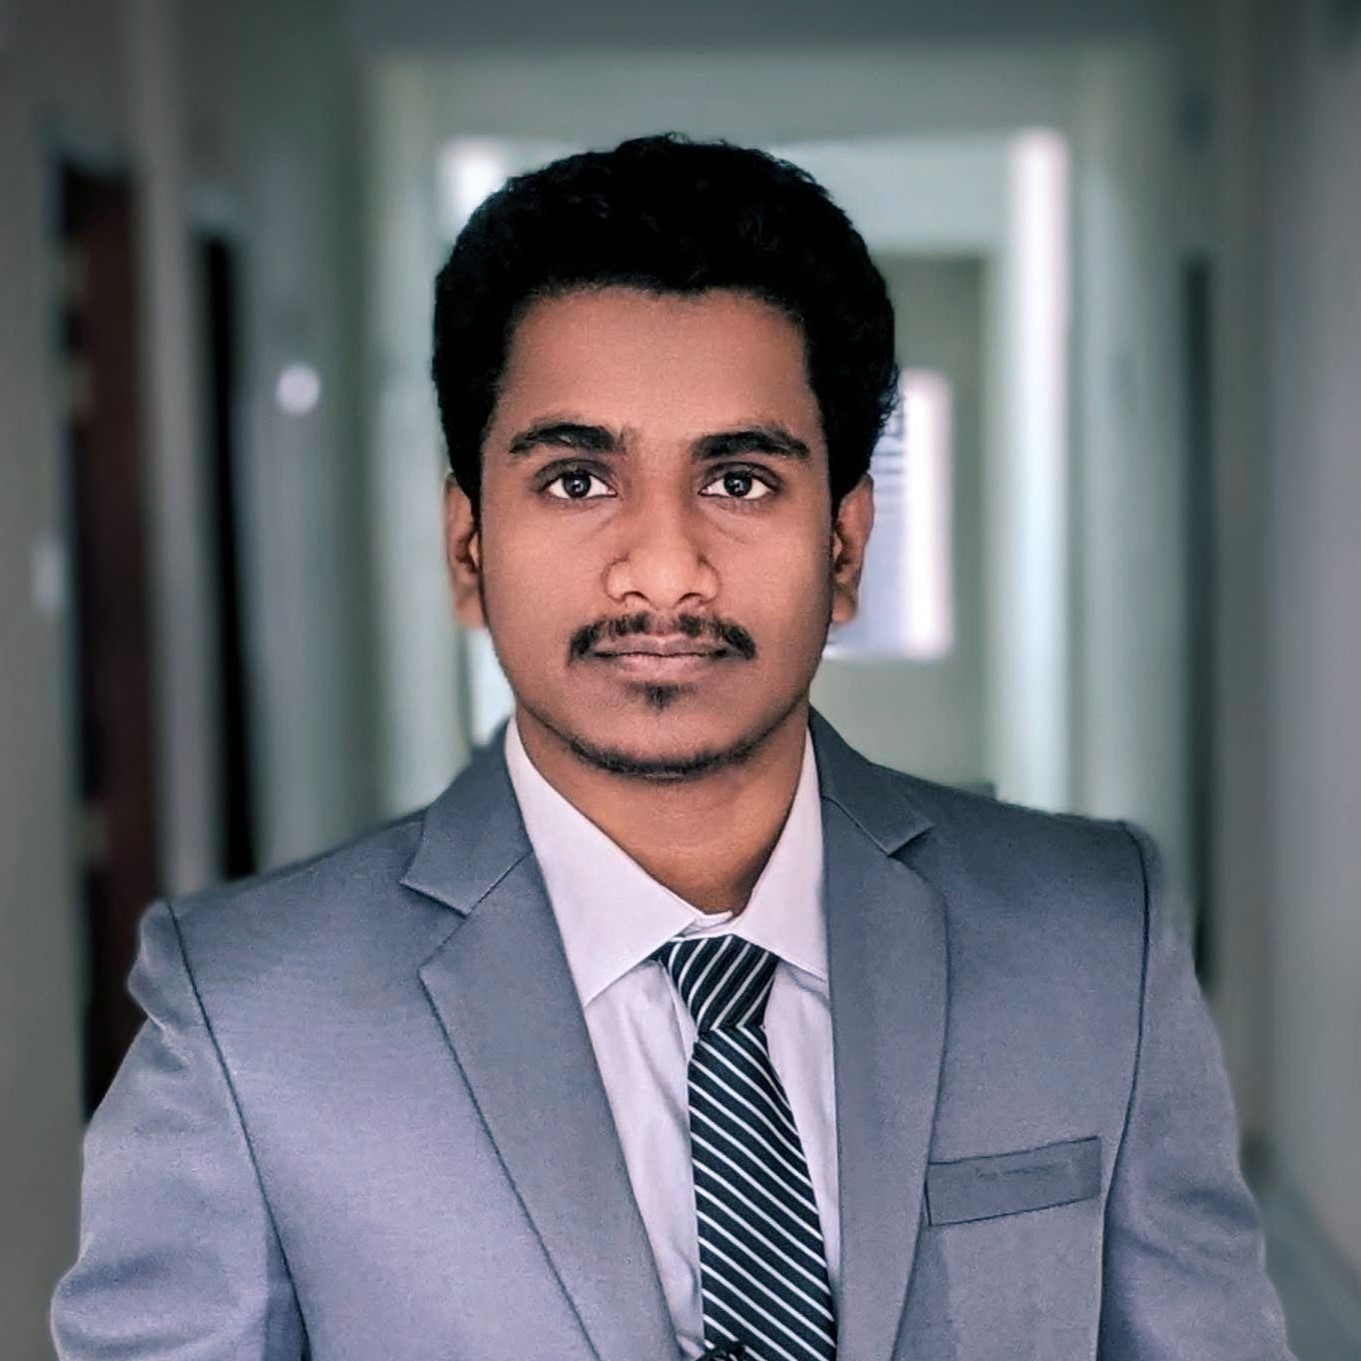
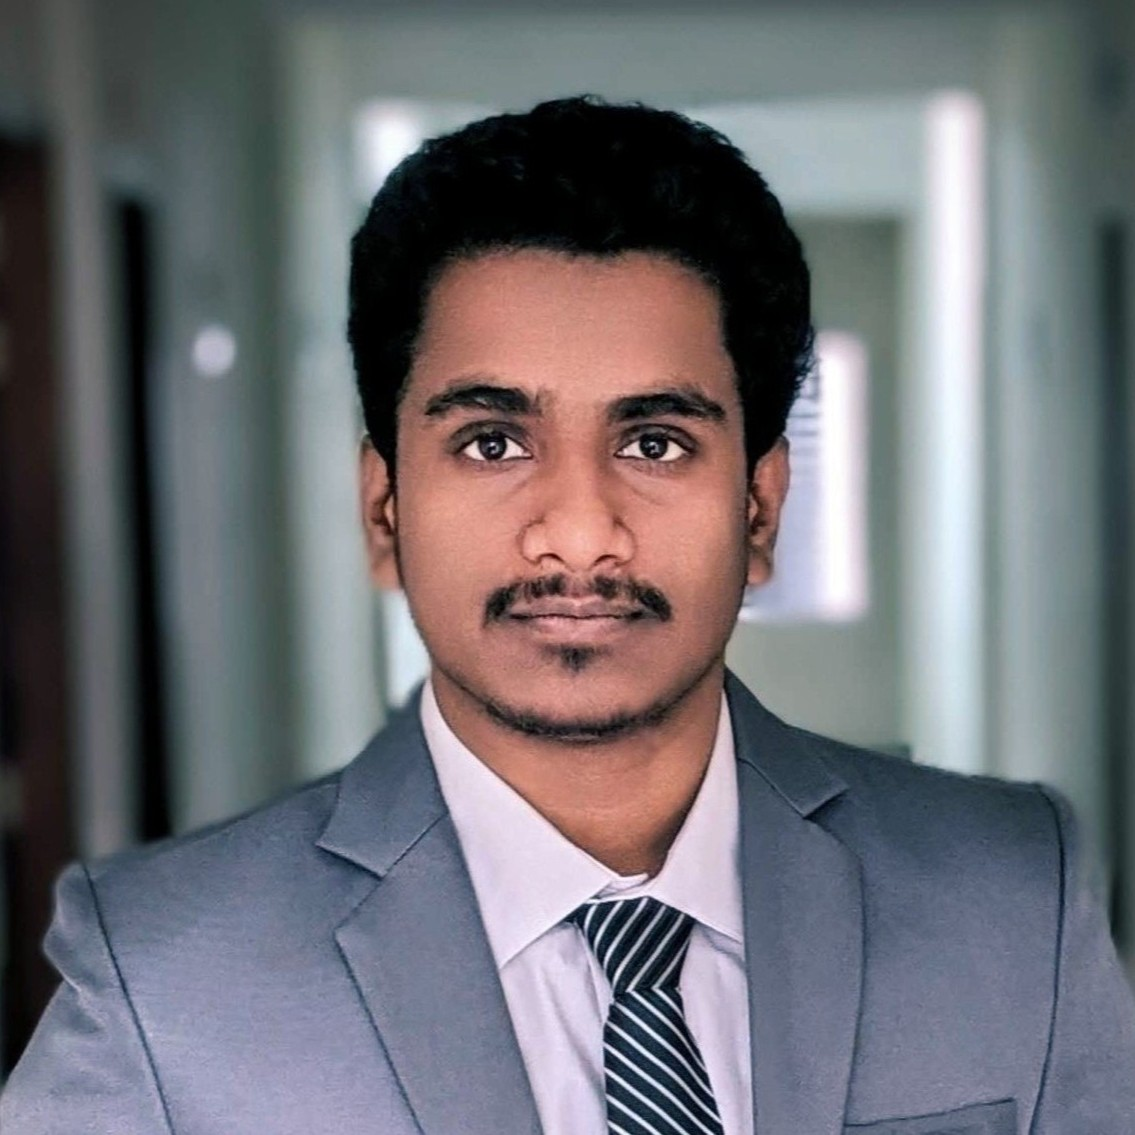
27

diff --git a/assets/js/index.js b/assets/js/index.js
@@ -269,6 +269,30 @@ const projectsData = [
         "link": "https://github.com/lifaet/Local-FileIndex-Server",
         "catagory": ["software"],
         "tags": ["Python", "HTML", "CSS", "JavaScript"]
+    },
+    {
+        "name": "Modern Digital Resume",
+        "details": "Basic application to index and share selected directories of a Windows computer to the local network.",
+        "image": "./assets/images/portfolio/17.png",
+        "link": "https://lifaet.github.io",
+        "catagory": ["web"],
+        "tags": ["HTML", "CSS", "JavaScript"]
+    },
+    {
+        "name": "Digital Resume",
+        "details": "Basic application to index and share selected directories of a Windows computer to the local network.",
+        "image": "./assets/images/portfolio/18.png",
+        "link": "https://v2.lifaet.pages.dev/",
+        "catagory": ["web"],
+        "tags": ["HTML", "CSS", "Bootstrap", "JavaScript"]
+    },
+    {
+        "name": "Highly Aminated Portfolio",
+        "details": "Basic application to index and share selected directories of a Windows computer to the local network.",
+        "image": "./assets/images/portfolio/19.png",
+        "link": "https://v1.lifaet.pages.dev/",
+        "catagory": ["web"],
+        "tags": ["HTML", "CSS", "JavaScript", "OpenGL"]
     }
 ];
 